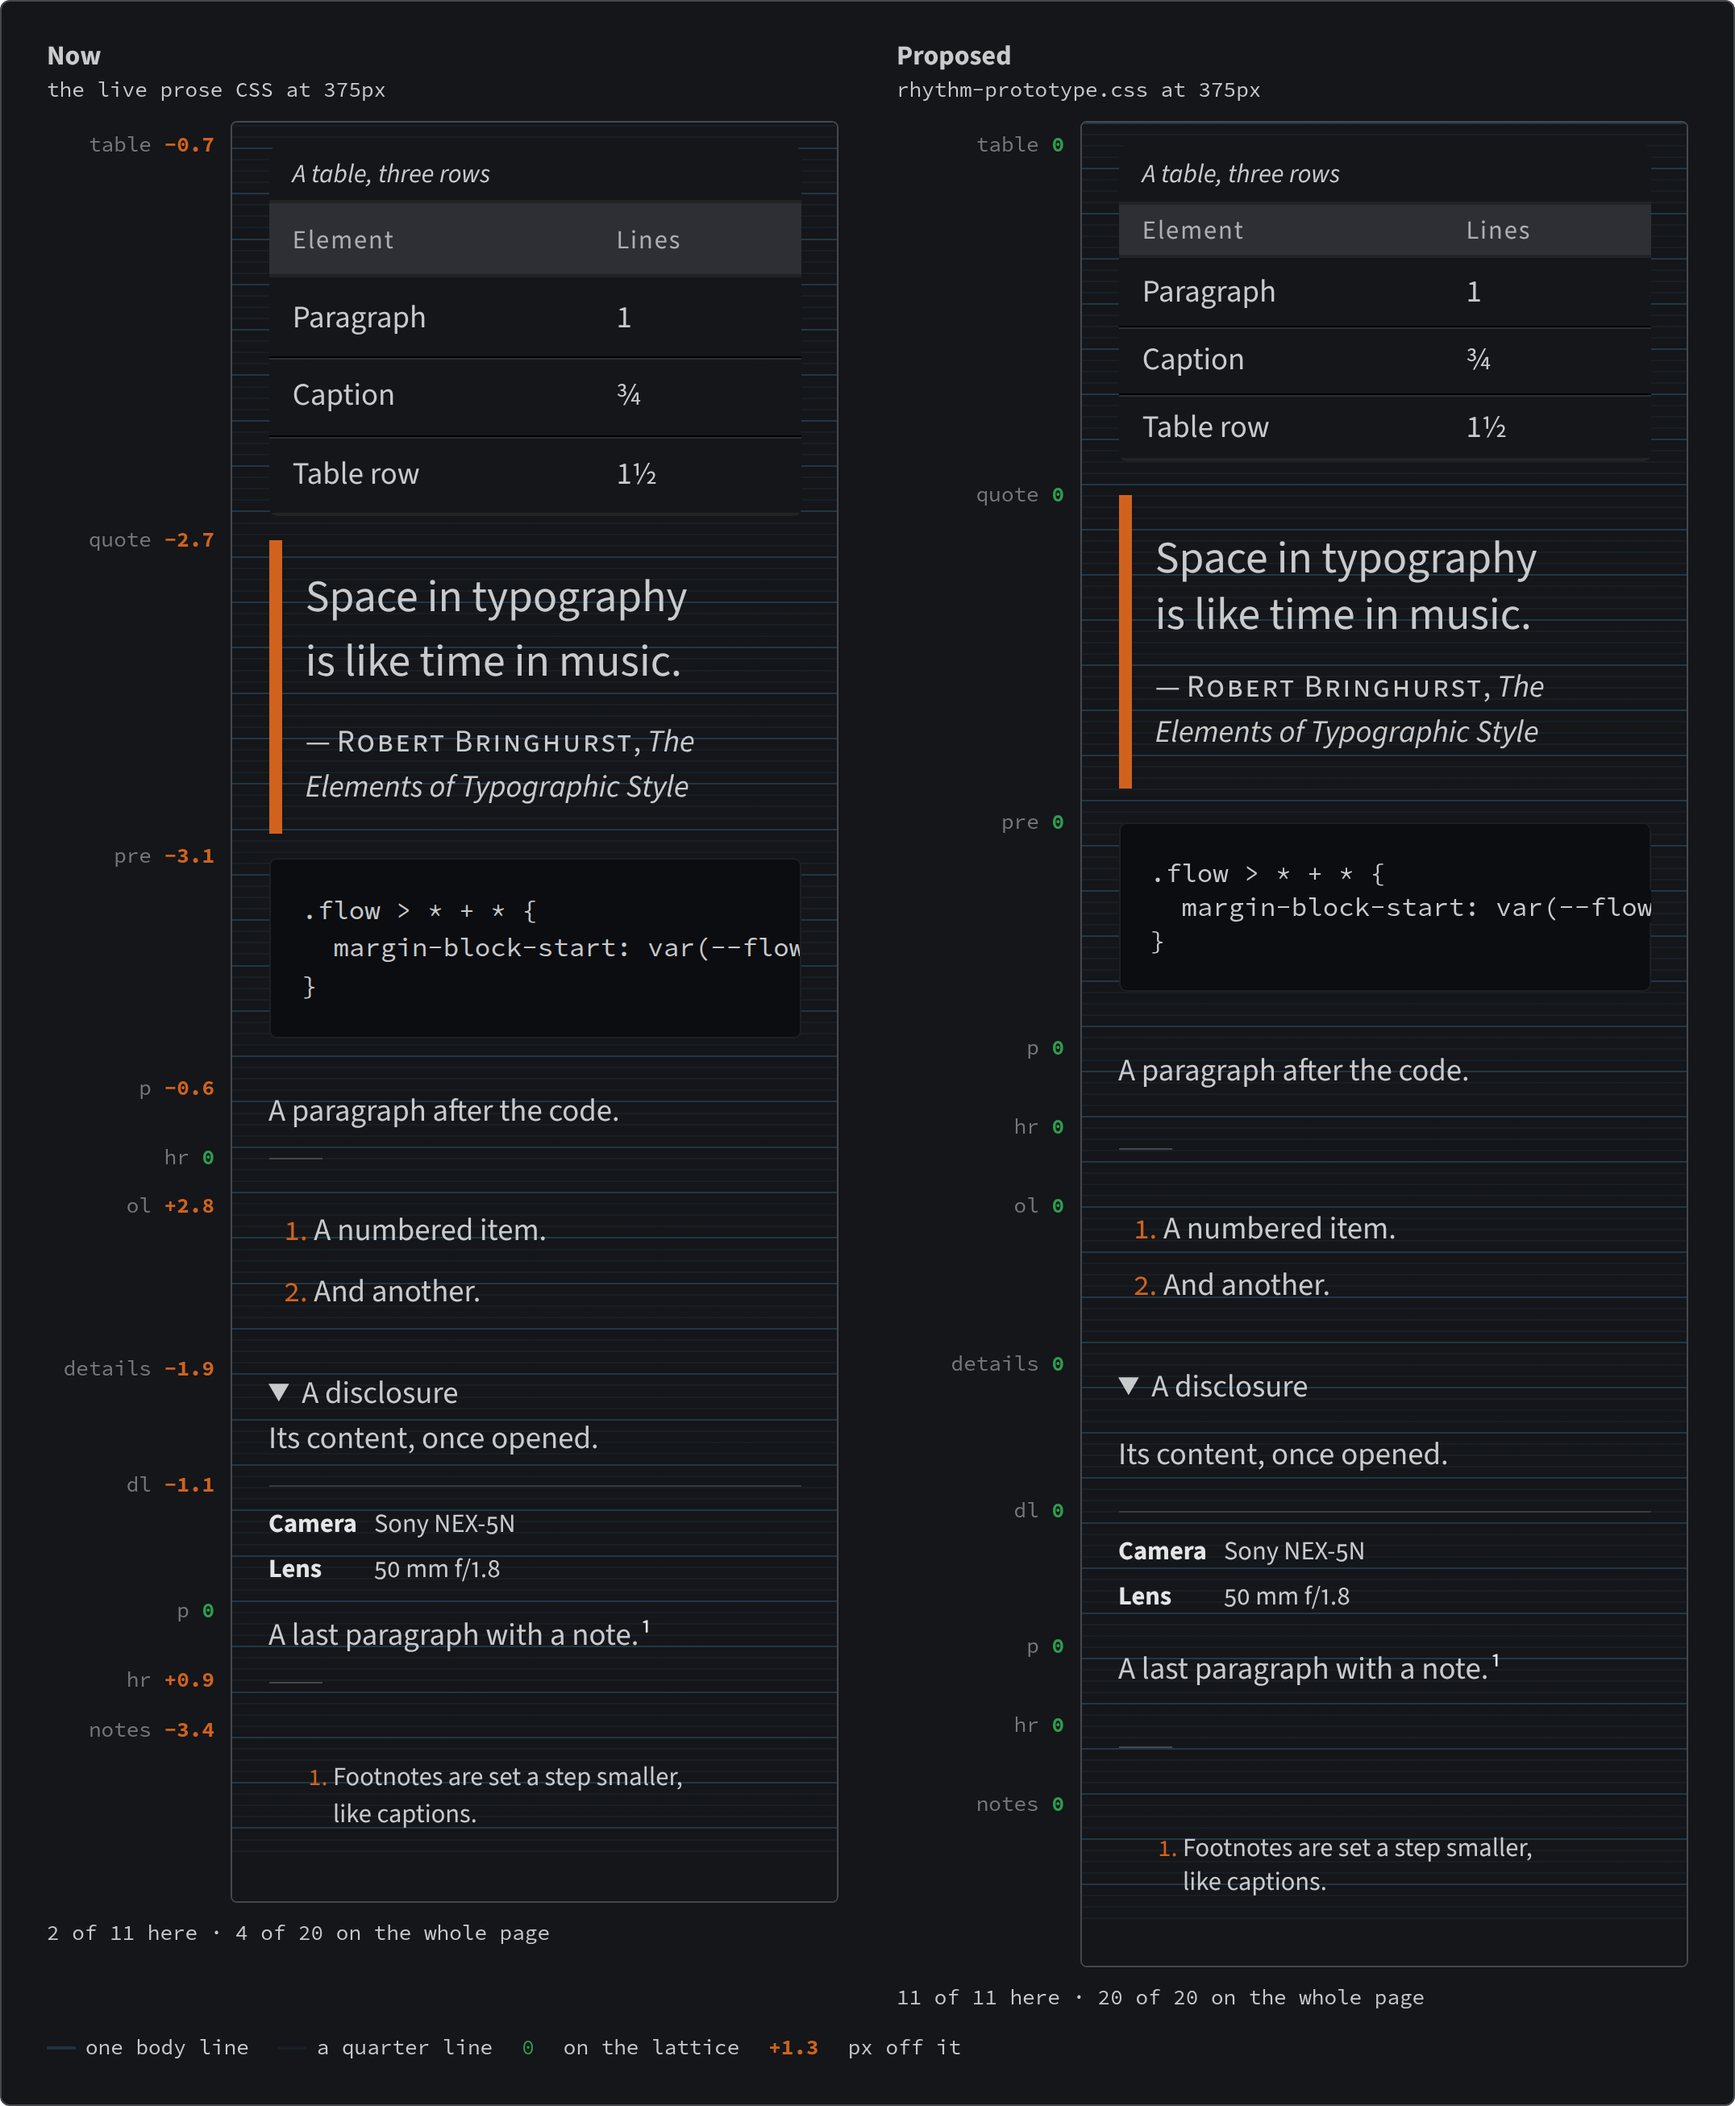
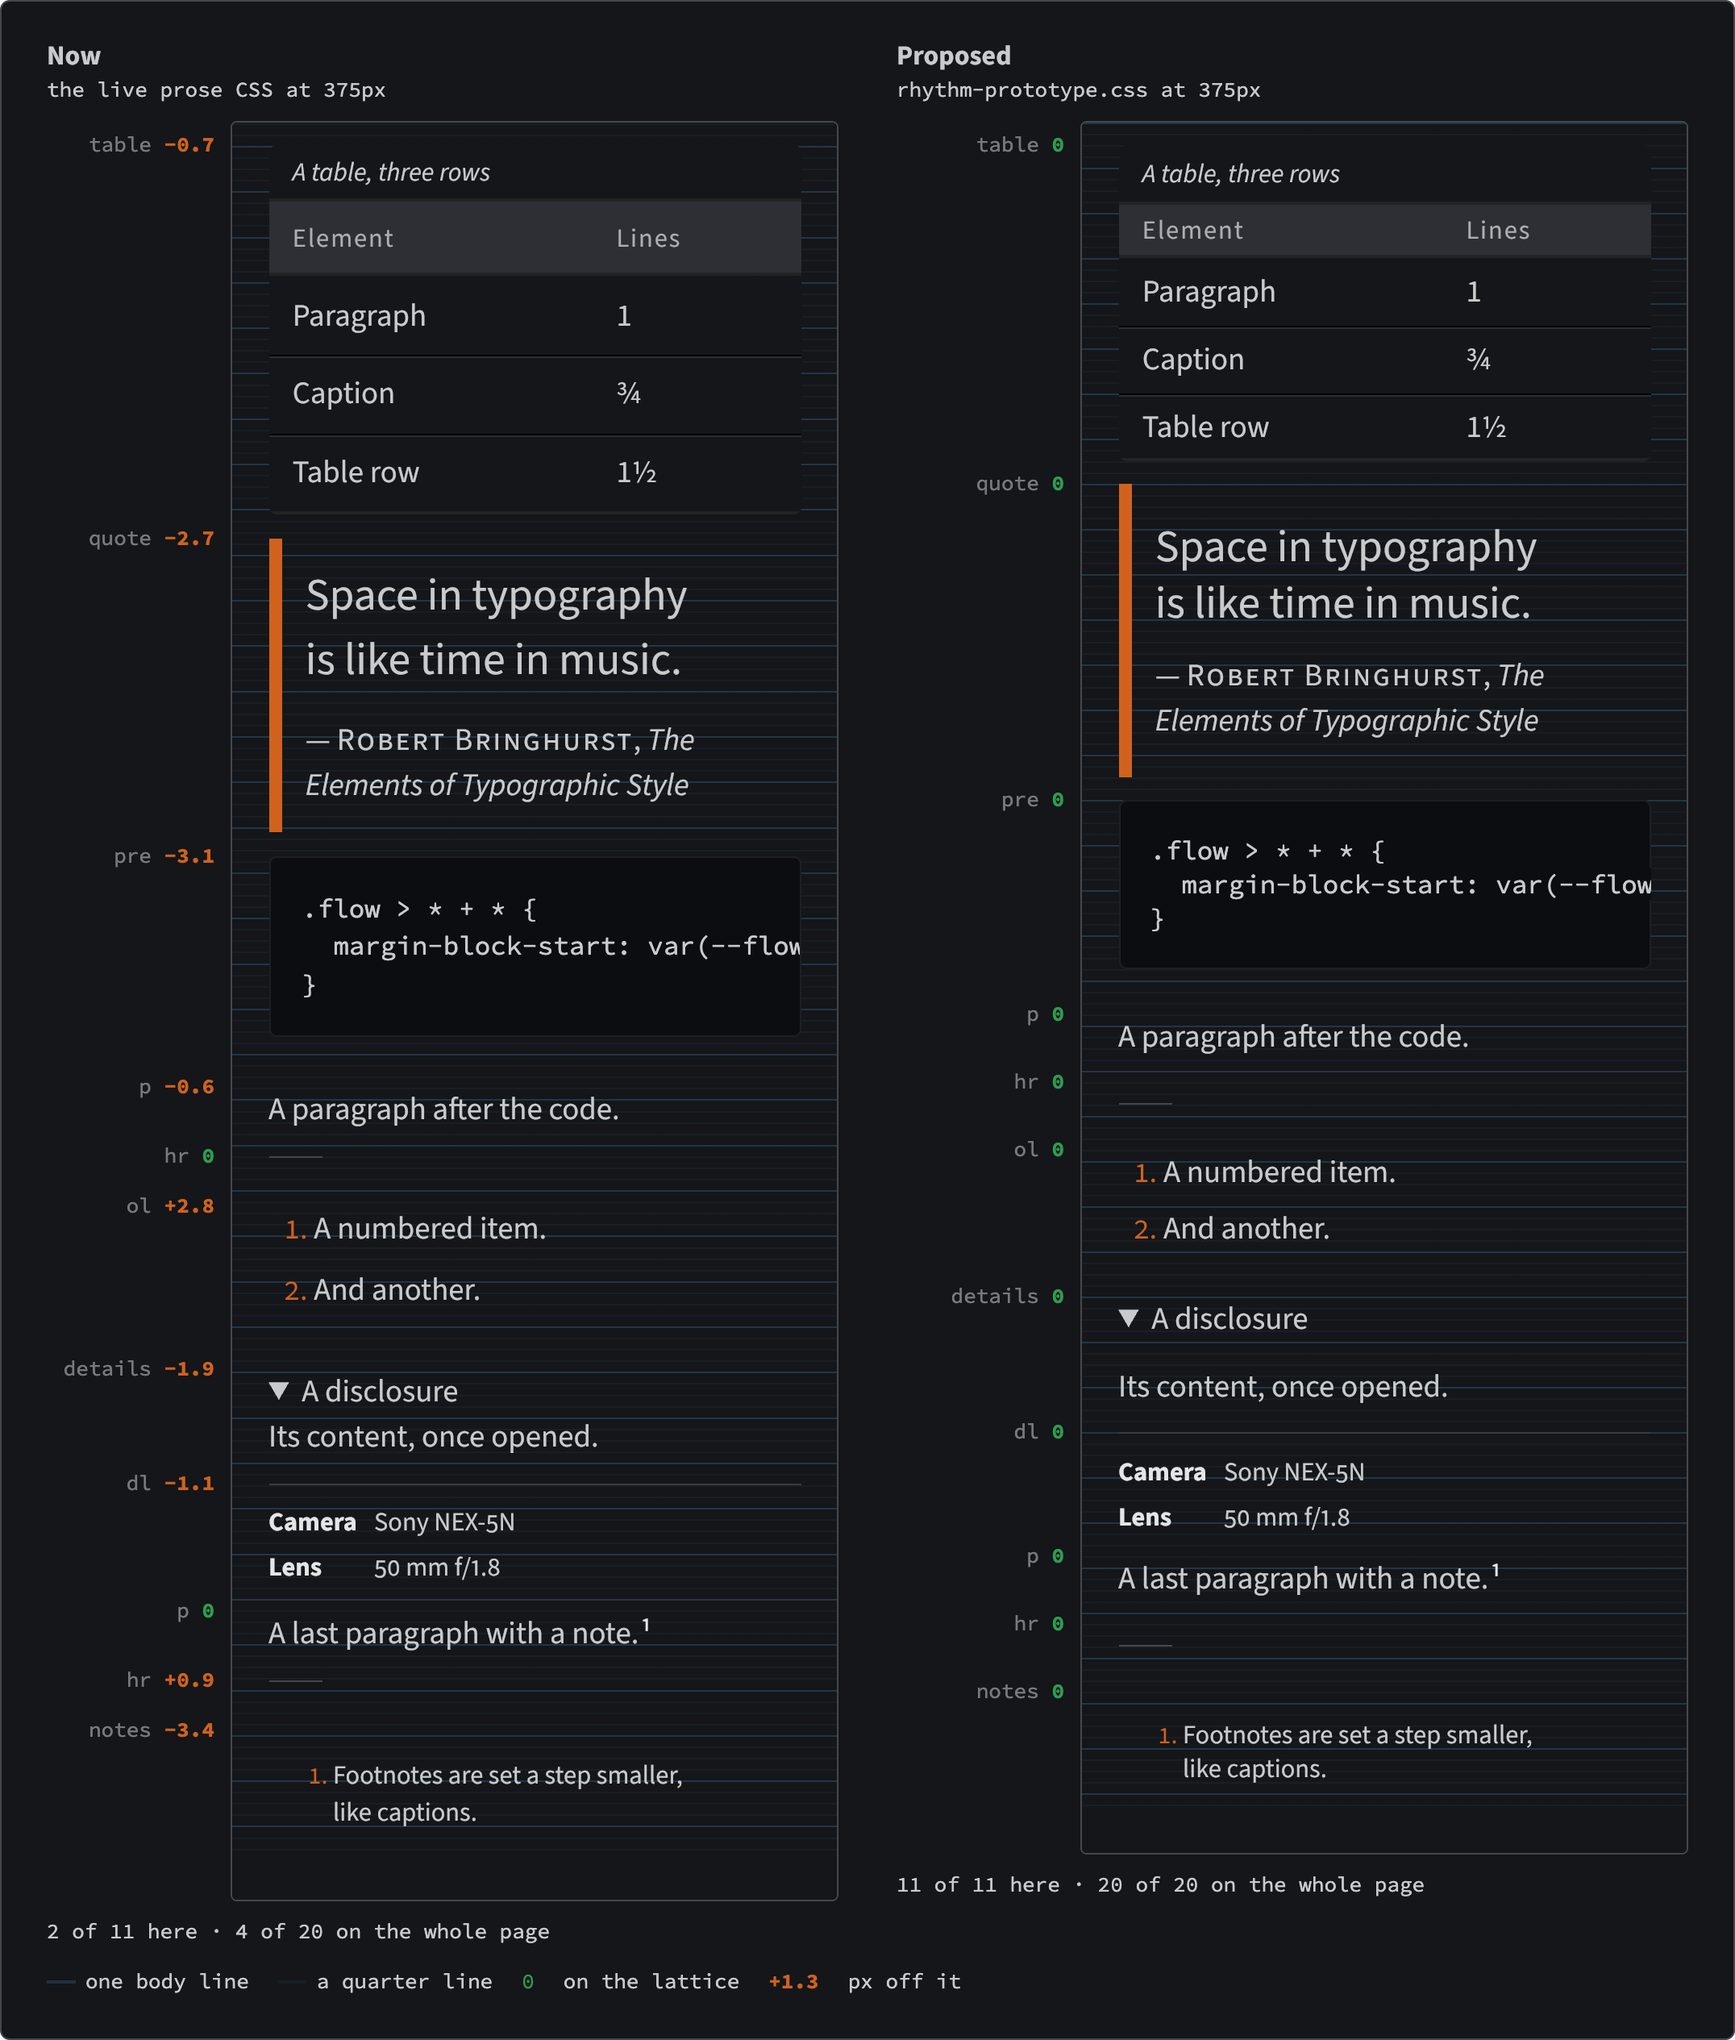
Rhythm prototype: paragraph gap half a line, on trial
14px on a phone as now, 20.5px wide instead of 30.75px. Still 20 of 20 blocks on the lattice; wiki tables, quoted code and figures follow.

diff --git a/src/assets/css/local/rhythm-prototype.css b/src/assets/css/local/rhythm-prototype.css
@@ -28,7 +28,7 @@ A proposal, not the site's CSS: every vertical gap, and every line box that is n
   --line-2: calc(var(--line) * 2);
 
   /* The knobs: every rule below reads one of these. */
-  --rhythm-gap: var(--line-3q);
+  --rhythm-gap: var(--line-half);
   --rhythm-after-heading: var(--line-half);
   --rhythm-small-leading: var(--line-3q);
   --rhythm-rule-color: var(--color-bg-accent-2);

diff --git a/src/wiki/Vertical rhythm.md b/src/wiki/Vertical rhythm.md
@@ -71,7 +71,7 @@ Measured in the mockup below at 375px and 1360px, on the same prose sample under
 Table: What each element takes now and in the quarter-line prototype (375px / 1360px)
 | element | now | prototype | how |
 | --- | --- | --- | --- |
-| gap between paragraphs | 14.9 / 31.0 px | 21 / 30.75 px (¾ line) | `--flow-space` |
+| gap between paragraphs | 14.9 / 31.0 px | 14 / 20.5 px (½ line) | `--flow-space` |
 | space above an `h3` | 41.8 / 65.9 px | 42 / 61.5 px (1½ lines) | `--flow-space` on the heading |
 | space under a heading | 14.9–19.7 / 31.0 px | 14 / 20.5 px (½ line) | `:is(h1, h2, h3, h4) + *` |
 | heading line | 1.2 × its size | nearest quarter line to 1.2 × its size | `round()` |
@@ -167,7 +167,7 @@ Table: The prototype's intervals read as rhythm
 | --- | --- | --- |
 | body text | 1 | the beat |
 | quarter line | ¼ | the subdivision everything is counted in |
-| gap between paragraphs | ¾ | a short rest |
+| gap between paragraphs | ½ | a short rest |
 | space under a heading | ½ | a breath that ties the heading to its phrase |
 | space above an `h2` | 2 | a longer rest before a new section |
 | caption, meta, code or footnote line | ¾ | four against three: four lines in three beats |
@@ -211,7 +211,7 @@ Table: Scale.css, jedee now, and the prototype
 | | Scale.css (2012) | jedee now | prototype |
 | --- | --- | --- | --- |
 | unit | the line, 1.5em | none: Utopia space tokens | a quarter of the body line |
-| gap between paragraphs | 1 line | 0.53–0.76 line | ¾ line |
+| gap between paragraphs | 1 line | 0.53–0.76 line | ½ line |
 | list indent | 1 line, hanging from 479px | 1 line (`1lh`) | as now |
 | unordered list marker | hollow circle | hollow ring (◦) | as now |
 | space under code | about 1.9 lines | the gap + 1em of code | the gap + ½ line |
@@ -238,12 +238,12 @@ arielsalminen.com could not be opened from the session. The 2012 article is quot
 Everything vertical comes from one rule, `.flow > * + *` in `global/compositions/flow.css`, fed by Eleventy Excellent's Utopia tokens and the element rules in `global/blocks/prose.css`. Nothing is measured in lines.
 
 <figure class="popout" data-wiki-mockup>
-  <img eleventy:formats="webp,png" src="/assets/images/wiki/vertical-rhythm-drift-top.png" alt="Two copies of the same prose sample, 375 pixels wide, side by side over blue rules at every body line and fainter ones at every quarter line. A label beside each block gives its distance in pixels from the nearest quarter line. Left, the site's current CSS: the heading 0, meta line +1.3, the two paragraphs −2.5 and −1.6, the h3 −2.1, the list +1.8, the paragraph after it 0, the figure +1.0, the paragraph after the figure −1.5; two of nine blocks on the lattice. Right, the prototype: every label reads 0, nine of nine." width="2152" height="2320">
+  <img eleventy:formats="webp,png" src="/assets/images/wiki/vertical-rhythm-drift-top.png" alt="Two copies of the same prose sample, 375 pixels wide, side by side over blue rules at every body line and fainter ones at every quarter line. A label beside each block gives its distance in pixels from the nearest quarter line. Left, the site's current CSS: the heading 0, meta line +1.3, the two paragraphs −2.5 and −1.6, the h3 −2.1, the list +1.8, the paragraph after it 0, the figure +1.0, the paragraph after the figure −1.5; two of nine blocks on the lattice. Right, the prototype: every label reads 0, nine of nine." width="2152" height="2302">
   <figcaption>The first half of the sample on a phone. Each label is how far that block's top edge is from the nearest quarter line; half a pixel or less counts as on it.</figcaption>
 </figure>
 
 <figure class="popout" data-wiki-mockup>
-  <img eleventy:formats="webp,png" src="/assets/images/wiki/vertical-rhythm-drift-end.png" alt="The second half of the same comparison. Left, the current CSS: table −0.7, blockquote −2.7, code block −3.1, paragraph −0.6, rule 0, numbered list +2.8, disclosure −1.9, photo metadata −1.1, paragraph 0, footnote rule +0.9, footnotes −3.4; four of twenty blocks on the lattice over the whole page. Right, the prototype: every label 0, twenty of twenty. The prototype's table rows, code block and rule are visibly more even." width="2152" height="2612">
+  <img eleventy:formats="webp,png" src="/assets/images/wiki/vertical-rhythm-drift-end.png" alt="The second half of the same comparison. Left, the current CSS: table −0.7, blockquote −2.7, code block −3.1, paragraph −0.6, rule 0, numbered list +2.8, disclosure −1.9, photo metadata −1.1, paragraph 0, footnote rule +0.9, footnotes −3.4; four of twenty blocks on the lattice over the whole page. Right, the prototype: every label 0, twenty of twenty. The prototype's table rows, code block and rule are visibly more even." width="2152" height="2530">
   <figcaption>The second half, from the table on. The lattice is still counted from the page's first block.</figcaption>
 </figure>
 
@@ -266,7 +266,7 @@ Both figures are `src/wiki/_sources/vertical-rhythm.html`. It fetches the style 
   --line-1h: calc(var(--line) * 1.5);
   --line-2: calc(var(--line) * 2);
 
-  --rhythm-gap: var(--line-3q);
+  --rhythm-gap: var(--line-half);
   --rhythm-after-heading: var(--line-half);
   --rhythm-small-leading: var(--line-3q);
   --flow-space: var(--rhythm-gap);
@@ -285,7 +285,7 @@ It changes no token and no global file. It works through `--flow-space`, the pub
 
 ### Not done
 
-- **The paragraph gap.** Three-quarters of a line is 21px on a phone where the gap is 15px now, and the same as now on a wide screen. Half a line would keep the phone as it is and halve the desktop gap. This is the change a reader would notice first, and it is Johan's call.
+- **The paragraph gap.** Half a line since 2026-10-01, on trial: 14px on a phone, as now, and 20.5px on a wide screen, two-thirds of today's 31px. Three-quarters, the first proposal, made the phone gap 21px. At half a line the space under a heading equals the paragraph gap, so a heading no longer sits closer to its text than paragraphs sit to each other.
 - **Adopting it.** The unit and its line-height would move to `.prose`. ⚠ A length line-height inherits as a length, so anything inside prose that sets its own font size without a line-height (a card, a webmention, an embed's caption) would inherit the body's 28px lines. Each needs its own line-height, from the small-text step or the ratio it has now.
 - **Image ratios.** Snapping figures needs `--img-ratio` on each figure. The eleventy-img transform could write it; nothing does yet.
 - **Page-level space.** Region padding, the header and the footer stay on the Utopia tokens. They frame the text rather than interrupt it.
